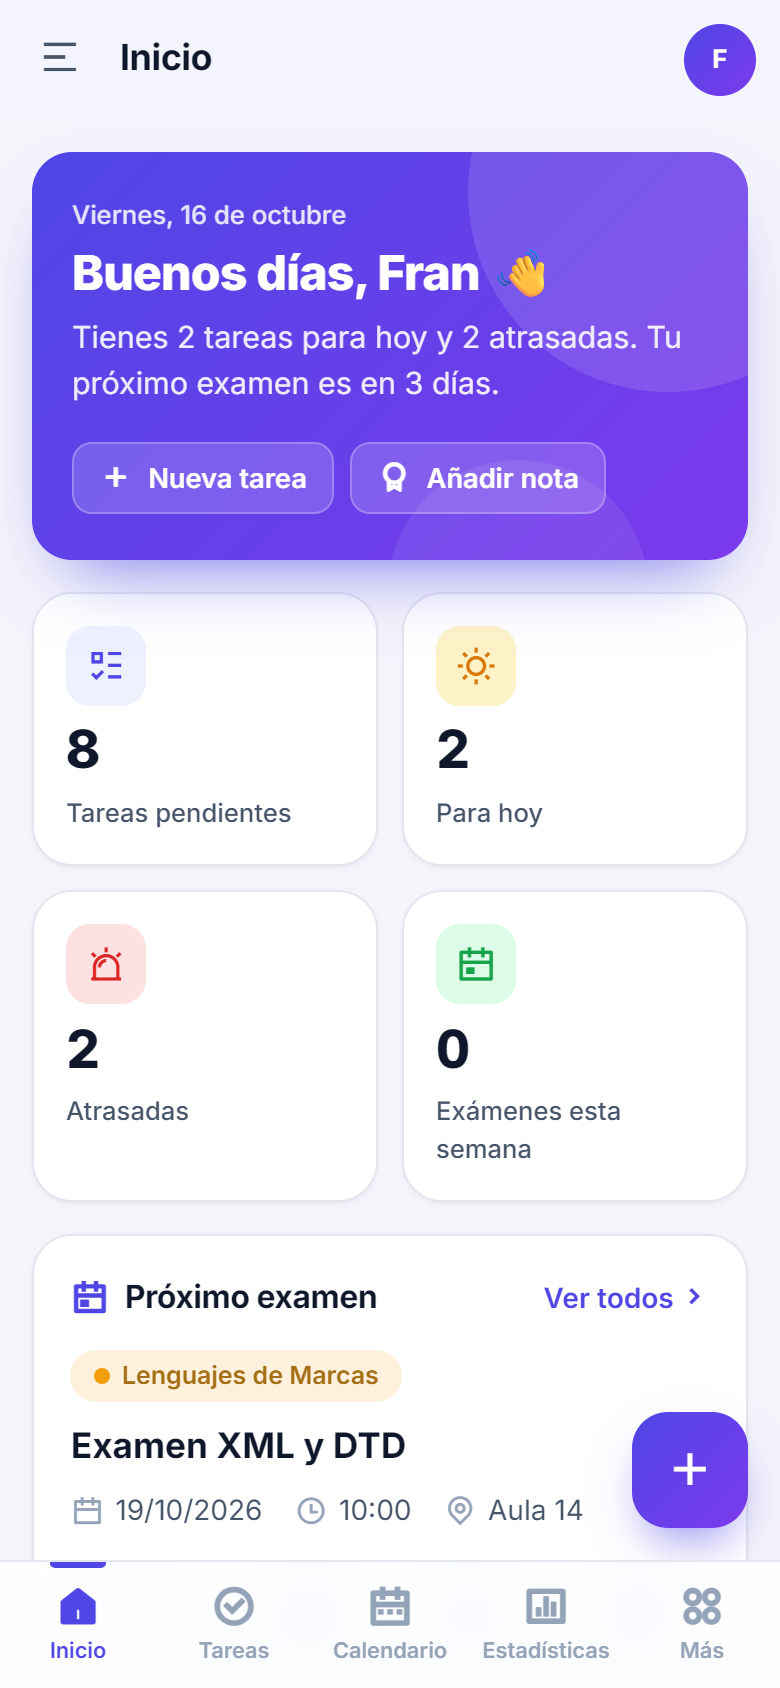
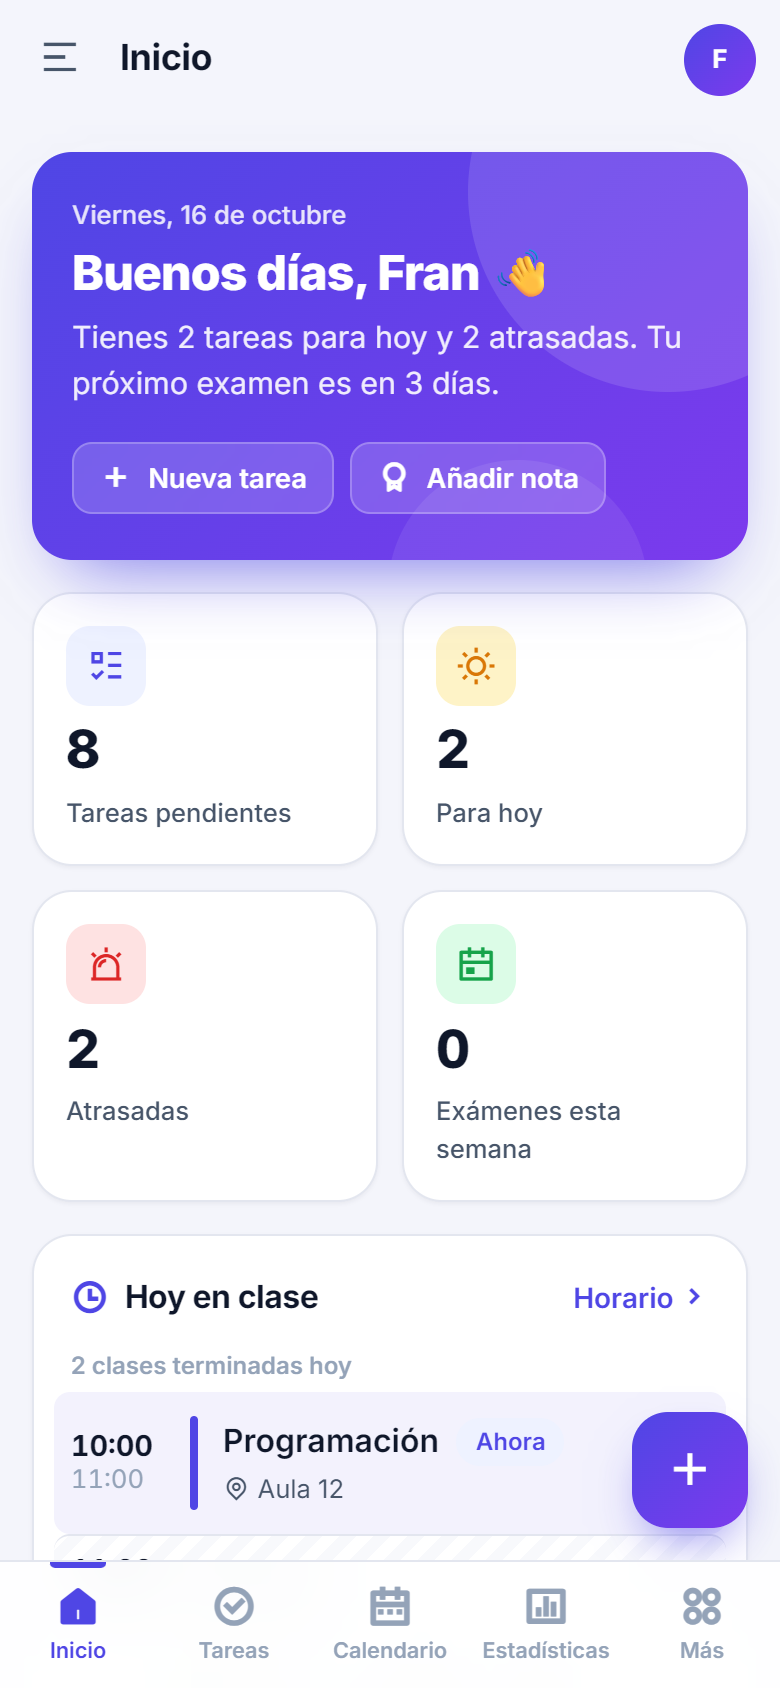
README: mi curso, migraciones, APP_KEY y calendarios de Moodle y Classroom
- Cómo aplicar sql/migrations/ en una base ya en uso y cómo cargar
  sql/mi_curso.sql con tu email.
- APP_KEY: config/app.local.php o variable de entorno, y cómo generarla.
- Nueva sección de calendarios externos: de dónde sacar la URL en Moodle
  y en Classroom, cómo se asignan las asignaturas, calendario de ejemplo
  y sincronización automática con el Programador de tareas de Windows,
  cron en Linux y el servicio sync de Docker.
- Capturas actualizadas (Hoy en clase, horario con recreo) y nueva de
  la pantalla de calendarios; la URL ocupa toda la fila en su tarjeta.

diff --git a/css/style.css b/css/style.css
@@ -4266,6 +4266,10 @@ a.grade-mini__subject:hover {
   font-size: .9rem;
 }
 
+.feed-card__wide {
+  grid-column: 1 / -1;
+}
+
 .feed-card__url {
   color: var(--c-text-2);
   word-break: break-all; /* la URL se corta donde haga falta, junto al candado */

diff --git a/views/calendars/index.php b/views/calendars/index.php
@@ -82,7 +82,7 @@ $pendingCount = array_sum(array_map(static fn (array $g): int => count($g['tarea
             <dt>Última sincronización</dt>
             <dd><?= $calendar['ultima_sincronizacion'] ? e(ucfirst(format_moment($calendar['ultima_sincronizacion']))) : '<span class="text-soft">Nunca</span>' ?></dd>
           </div>
-          <div>
+          <div class="feed-card__wide">
             <dt>URL</dt>
             <dd class="feed-card__url"><i class="ri-lock-2-line" aria-hidden="true"></i> <?= e($calendar['url_enmascarada']) ?></dd>
           </div>

diff --git a/README.md b/README.md
@@ -12,16 +12,17 @@ que funciona igual de bien en el móvil que en el ordenador, con tema claro y os
 
 | Sección | Qué puedes hacer |
 | --- | --- |
-| **Inicio** | Resumen del día: tareas para hoy y atrasadas, exámenes de la semana, cuenta atrás del próximo examen, progreso académico (media general), resumen semanal y últimas notas. |
+| **Inicio** | Resumen del día: tareas para hoy y atrasadas, exámenes de la semana, «Hoy en clase» (la clase de ahora y la siguiente), cuenta atrás del próximo examen, progreso académico (media general), resumen semanal y últimas notas. |
 | **Asignaturas** | Crear, editar y borrar asignaturas con profesor, curso y color (paleta o color libre). Cada tarjeta muestra la media, las tareas pendientes y el próximo examen; el detalle reúne sus tareas, exámenes, notas y horario. |
 | **Tareas** | Tareas con asignatura opcional, fecha límite, prioridad y estado. Pestañas (hoy, próximos 7 días, atrasadas), filtros, búsqueda y completar en un clic. Se resaltan las vencidas y las de hoy. |
 | **Exámenes** | Próximos exámenes con cuenta atrás y exámenes pasados. Un examen realizado tiene el botón «Añadir nota», que abre el formulario de notas ya rellenado. |
 | **Notas** | Calificaciones de 0 a 10 (con coma o punto y hasta dos decimales) por tipo, agrupadas por asignatura con su media, media general y aprobado/suspenso. |
-| **Horario** | Clases semanales sin solapes: rejilla en escritorio y lista por día en el móvil, con el día de hoy destacado. |
+| **Horario** | Clases semanales sin solapes: rejilla en escritorio y lista por día en el móvil, con el día de hoy destacado, el recreo como una banda propia, las horas seguidas de la misma asignatura unidas y la clase de «Ahora» y la de «Después» marcadas. |
 | **Calendario** | Vista mensual con exámenes y fechas límite de tareas en el color de su asignatura. Al pulsar un día se ve lo que hay; en el móvil, agenda del mes en lista. |
 | **Objetivos** | Metas medibles («5 ejercicios», «20 horas»…) con barra de progreso y botones +/−. Se completan solas al llegar a la meta. |
 | **Estadísticas** | Gráficos SVG hechos a mano: media por asignatura, evolución de las notas, tareas completadas por semana y tareas por estado, con *tooltips*. |
 | **Perfil** | Datos personales, tema claro/oscuro/sistema, cambio de contraseña y eliminación de la cuenta. |
+| **Calendarios** | Conecta Moodle y Google Classroom por su URL iCal: sus entregas y exámenes se importan como tareas y exámenes en la asignatura que corresponde (solo fechas y títulos, nunca notas), con vista previa, sincronización manual o automática e insignia «Moodle»/«Classroom». Ver [Calendarios de Moodle y Classroom](#calendarios-de-moodle-y-classroom). |
 
 ### Seguridad
 
@@ -31,6 +32,9 @@ que funciona igual de bien en el móvil que en el ordenador, con tema claro y os
   nadie puede ver ni modificar datos de otro usuario.
 - Todos los formularios llevan **token CSRF** y toda la salida se escapa con `e()` (evita XSS).
 - Patrón POST → redirección → GET con mensajes *flash*.
+- Las URLs secretas de los calendarios se guardan **cifradas** (AES-256-GCM con `APP_KEY`) y
+  en pantalla solo se ven enmascaradas. Al descargarlas se bloquean las direcciones locales y
+  de redes privadas (**protección SSRF**), con límite de tiempo, de tamaño y de redirecciones.
 
 ## Capturas
 
@@ -76,6 +80,8 @@ que funciona igual de bien en el móvil que en el ordenador, con tema claro y os
       Crea la base de datos `studytrack` con todas sus tablas.
    2. Repite con `sql/demo_data.sql` para cargar el [usuario de prueba](#usuario-de-prueba) (opcional).
 4. Entra en <http://localhost/StudyTrack> e inicia sesión con el usuario de prueba o crea tu cuenta.
+5. Para conectar calendarios de Moodle o Classroom, crea la clave `APP_KEY`
+   (ver [Configuración](#configuración)).
 
 Si tu MySQL tiene contraseña o un usuario distinto de `root`, mira [Configuración](#configuración).
 
@@ -91,10 +97,11 @@ Si tu MySQL tiene contraseña o un usuario distinto de `root`, mira [Configuraci
 ### Con Docker
 
 Solo necesitas [Docker Desktop](https://www.docker.com/products/docker-desktop/) (o Docker Engine con Compose).
-`docker-compose.yml` arranca dos contenedores: la app (PHP 8.3 + Apache) y MySQL 8.4.
+`docker-compose.yml` arranca tres contenedores: la app (PHP 8.3 + Apache), MySQL 8.4 y `sync`,
+que sincroniza los calendarios externos cada hora.
 
 ```bash
-cp .env.example .env      # opcional: cambia las contraseñas y el puerto
+cp .env.example .env      # cambia las contraseñas, el puerto y pon tu APP_KEY
 docker compose up -d --build
 ```
 
@@ -128,6 +135,19 @@ mysql -u root < sql/demo_data.sql   # opcional
 > ⚠ `database.sql` **borra y vuelve a crear las tablas**: si lo reimportas perderás los datos.
 > `demo_data.sql` se puede reimportar cuando quieras: solo borra y recrea el usuario de prueba.
 
+**Si ya tenías la base de datos** de una versión anterior, no reimportes `database.sql`: aplica
+las migraciones de `sql/migrations/` en orden (se importan igual, con phpMyAdmin o por consola).
+No borran nada:
+
+| Migración | Qué añade |
+| --- | --- |
+| `002_calendarios_externos.sql` | Calendarios externos: tablas `calendarios_externos` y `correspondencias_externas`, y `calendario_id`/`uid_externo` en tareas y exámenes |
+
+**Mis asignaturas y mi horario de 2º DAW** (`sql/mi_curso.sql`, opcional): regístrate en la web,
+cambia `TU_EMAIL_AQUI` por tu email al principio del archivo e impórtalo. Carga las 8 asignaturas
+(con su profesor, color y abreviatura) y las 30 horas del horario en tu cuenta. Se puede importar
+varias veces sin duplicar nada y no toca tus tareas, exámenes ni notas.
+
 ### Configuración
 
 Los valores por defecto funcionan con XAMPP y Laragon (usuario `root` sin contraseña).
@@ -147,16 +167,81 @@ También se pueden usar variables de entorno:
 | `DB_USER`, `DB_PASS` | `root`, *(vacía)* | Credenciales |
 | `APP_DEBUG` | `false` | `true` muestra los detalles de los errores. Solo para desarrollo. |
 | `TRUST_PROXY` | `false` | `true` si hay un proxy inverso con HTTPS delante (usa `X-Forwarded-Proto`). |
+| `APP_KEY` | *(vacía)* | Clave que cifra las URLs de los calendarios de Moodle y Classroom. Sin ella no se pueden conectar. |
 
 Para activar la depuración en XAMPP o Laragon, añade `SetEnv APP_DEBUG true` al final de
 `httpd.conf` (en XAMPP, *Config → Apache (httpd.conf)*) y reinicia Apache.
 
+**`APP_KEY`**: copia `config/app.local.example.php` como `config/app.local.php` (Git lo ignora) y
+pon una clave aleatoria, que puedes generar con:
+
+```bash
+php -r "echo 'base64:' . base64_encode(random_bytes(32)), PHP_EOL;"
+# En XAMPP: C:\xampp\php\php.exe -r "echo 'base64:' . base64_encode(random_bytes(32)), PHP_EOL;"
+```
+
+En Docker, ponla en `.env` (`APP_KEY=base64:…`). No la cambies después de conectar calendarios:
+las URLs guardadas con la clave anterior ya no se podrían leer.
+
 La cookie de sesión se marca como `Secure` automáticamente cuando la web se sirve por HTTPS.
 
-El resto de ajustes (nombre, zona horaria, nota de aprobado…) están en `config/app.php`.
+El resto de ajustes (nombre, zona horaria, nota de aprobado, recreo, aula por defecto de los
+exámenes importados…) están en `config/app.php`.
 
 El archivo `.htaccess` impide el acceso directo a las carpetas internas
-(`config/`, `includes/`, `models/`, `views/`, `sql/`…) y el listado de directorios.
+(`config/`, `includes/`, `models/`, `views/`, `sql/`, `cron/`) y el listado de directorios.
+
+## Calendarios de Moodle y Classroom
+
+En **Perfil → Calendarios de Moodle y Classroom** (o *Calendarios* en el menú) se conecta la
+URL iCal de cada calendario. Solo se importan **fechas y títulos**: cada entrega es una tarea y
+cada examen un examen; las notas no se importan nunca.
+
+![Calendarios externos conectados](assets/img/screenshots/calendarios.png)
+
+- **Moodle**: *Calendario → Importar o exportar calendarios → Exportar calendario*, marca
+  «Todos los eventos» y «Recientes y próximos» y pulsa *Obtener URL del calendario*.
+  Moodle junta todos tus cursos: cada evento va a la asignatura de su curso (se reconoce por el
+  nombre o por la abreviatura que pongas al principio de la descripción de la asignatura: DWES, DWEC…).
+- **Classroom**: en Google Calendar, *⋮ junto a la clase → Configuración y uso compartido →
+  Dirección secreta en formato iCal*. Hay un calendario por clase: al conectarlo, elige su asignatura.
+- Antes de importar se ve una **vista previa** con la asignatura que tendrá cada evento. Lo que no
+  se reconoce queda en **Pendientes de asignar**, donde eliges la asignatura y StudyTrack lo recuerda.
+- Al sincronizar solo se actualizan el título y la fecha: tu estado, prioridad y asignatura se
+  respetan, y nunca se borra nada aunque desaparezca del calendario de origen.
+- ⚠ Esa URL da acceso a tu calendario: trátala como una contraseña.
+
+Para probar sin Moodle puedes conectar el calendario de ejemplo `sql/demo_calendar.ics` desde
+<https://raw.githubusercontent.com/Frxnker/StudyTrack/feature/calendarios/sql/demo_calendar.ics>
+(por seguridad no se aceptan URLs de `localhost`). Sus fechas se regeneran con
+`php sql/generar_demo_calendar.php`.
+
+### Sincronización automática (cada hora)
+
+`cron/sync_calendars.php` sincroniza todos los calendarios que tengan activada la sincronización
+automática. Solo funciona por línea de comandos (desde la web responde 404).
+
+**Windows (XAMPP), con el Programador de tareas.** En una consola (cmd):
+
+```bat
+schtasks /Create /TN "StudyTrack - Calendarios" /SC HOURLY /F /TR "cmd /c C:\xampp\php\php.exe C:\xampp\htdocs\StudyTrack\cron\sync_calendars.php >> C:\xampp\htdocs\StudyTrack\cron\sync.log 2>&1"
+```
+
+O desde la interfaz: *Programador de tareas → Crear tarea básica → Diariamente → Iniciar un
+programa* (`C:\xampp\php\php.exe`, argumento `C:\xampp\htdocs\StudyTrack\cron\sync_calendars.php`)
+y, en sus propiedades, *Desencadenadores → Repetir la tarea cada 1 hora*. MySQL tiene que estar
+arrancado. Para probarlo a mano: `C:\xampp\php\php.exe C:\xampp\htdocs\StudyTrack\cron\sync_calendars.php`.
+
+**Linux, con cron** (`crontab -e`):
+
+```cron
+0 * * * * php /var/www/html/StudyTrack/cron/sync_calendars.php >> /var/log/studytrack-sync.log 2>&1
+```
+
+**Docker**: `docker-compose.yml` ya incluye el servicio `sync`, que usa la misma imagen y ejecuta
+el script cada hora (`docker compose logs -f sync`). Si prefieres cron dentro del contenedor de la
+app, instala `cron` en el `Dockerfile` y añade la línea anterior; o lanza una sincronización a mano
+con `docker compose exec app php cron/sync_calendars.php`.
 
 ## Usuario de prueba
 
@@ -184,16 +269,19 @@ StudyTrack/
 ├── calendar.php          │
 ├── goals.php             │
 ├── statistics.php        │
-├── profile.php           ┘
+├── profile.php           │
+├── calendars.php         ┘ (calendarios externos: Moodle, Classroom)
 ├── config/
-│   ├── app.php           Ajustes generales (zona horaria, nota de aprobado…)
+│   ├── app.php           Ajustes generales (zona horaria, nota de aprobado, recreo…)
+│   ├── app.local.example.php   Ejemplo de app.local.php (APP_KEY)
 │   └── database.php      Conexión PDO y funciones db_one(), db_all(), db_execute()…
 ├── includes/
 │   ├── bootstrap.php     Arranque común de todas las páginas
 │   ├── auth.php          Sesión segura, login y protección de páginas
-│   ├── functions.php     Escape, CSRF, validación, fechas, render()…
+│   ├── functions.php     Escape, CSRF, cifrado, validación, fechas, render()…
+│   ├── ical.php          Lector iCal y descarga segura de calendarios (sin librerías)
 │   └── header.php, navbar.php, footer.php   Layout
-├── models/               Consultas SQL de cada tabla (subject_*, task_*, exam_*…)
+├── models/               Consultas SQL de cada tabla (subject_*, task_*, exam_*, calendar_feed_*…)
 ├── views/                Plantillas HTML de cada sección
 │   └── partials/         Fragmentos reutilizables (estado vacío, cuenta atrás, borrar…)
 ├── css/
@@ -203,17 +291,24 @@ StudyTrack/
 │   ├── app.js            Menú, avisos, confirmaciones, filtros, cuenta atrás…
 │   ├── dashboard.js      Animaciones del dashboard
 │   ├── calendar.js       Lista del día pulsado en el calendario
+│   ├── calendars.js      Color de la asignatura en el formulario de calendarios
 │   ├── goals.js          Estado del formulario de objetivos según el progreso
 │   └── statistics.js     Gráficos SVG
+├── cron/
+│   └── sync_calendars.php   Sincronización automática de calendarios (solo consola)
 ├── sql/
 │   ├── database.sql      Esquema de la base de datos
-│   └── demo_data.sql     Datos de ejemplo
+│   ├── migrations/       Cambios para bases de datos ya en uso (002_calendarios_externos.sql)
+│   ├── demo_data.sql     Datos de ejemplo
+│   ├── mi_curso.sql      Mis asignaturas y mi horario de 2º DAW (cambia el email)
+│   ├── demo_calendar.ics Calendario de ejemplo para probar la importación
+│   └── generar_demo_calendar.php   Regenera demo_calendar.ics con fechas de hoy
 ├── assets/
 │   ├── fonts/            Tipografía Inter (woff2, pesos 400–800)
 │   ├── vendor/remixicon/ Iconos Remix Icon (CSS y fuentes)
 │   └── img/              Favicon y capturas de este README (screenshots/)
 ├── .htaccess             Bloquea el acceso a las carpetas internas
 ├── Dockerfile            Imagen PHP 8.3 + Apache
-├── docker-compose.yml    App + MySQL con importación automática del SQL
+├── docker-compose.yml    App + MySQL (con importación automática del SQL) + sincronización
 └── .env.example          Variables para Docker (copiar como .env)
 ```
